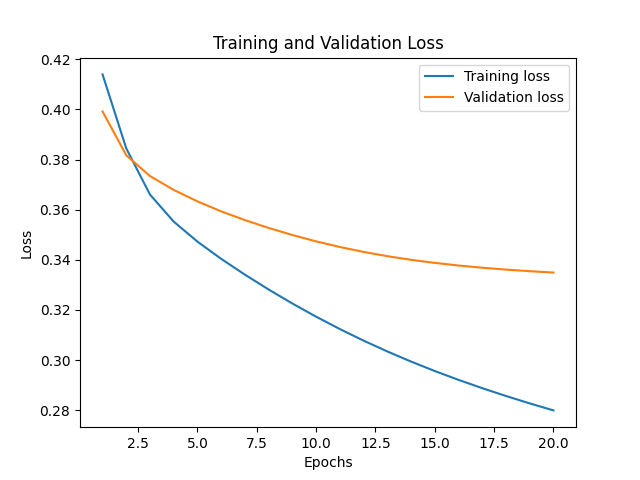
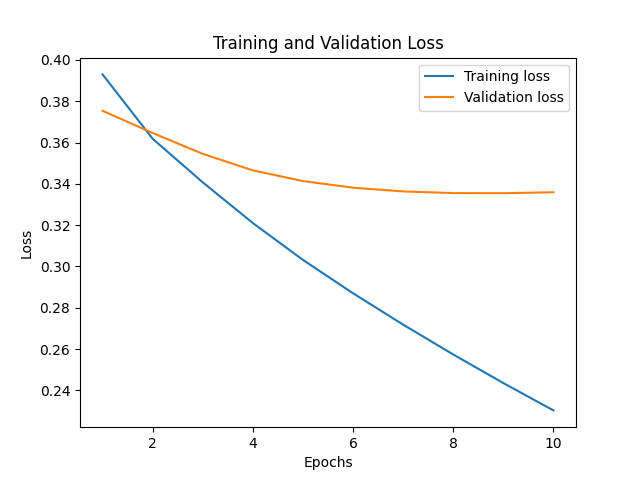
Part B

diff --git a/part_a/neural_network.py b/part_a/neural_network.py
@@ -1,3 +1,5 @@
+from matplotlib import pyplot as plt
+
 from utils import *
 from torch.autograd import Variable
 
@@ -8,7 +10,7 @@ import torch.utils.data
 
 import numpy as np
 import torch
-from scipy.sparse import hstack, csr_matrix
+from scipy.sparse import *
 
 
 def load_data(base_path="../data"):
@@ -35,6 +37,7 @@ def load_data(base_path="../data"):
     zero_train_matrix = torch.FloatTensor(zero_train_matrix)
     train_matrix = torch.FloatTensor(train_matrix)
 
+
     student_meta = pd.read_csv(os.path.join(base_path, 'student_meta_clean.csv'))
     question_meta = pd.read_csv(os.path.join(base_path, 'question_meta.csv'))
     subject_meta = pd.read_csv(os.path.join(base_path, 'subject_meta.csv'))
@@ -42,6 +45,20 @@ def load_data(base_path="../data"):
     student_meta_cleaned = process_student_metadata(student_meta)
     question_meta_cleaned = process_question_metadata(question_meta, subject_meta)
 
+    train_data = load_train_csv(base_path)
+
+    combined_train_matrix = combine_metadata_with_sparse_data(train_matrix,
+                                                 student_meta_cleaned,
+                                                 question_meta_cleaned,
+                                                 list(set(train_data['user_id'])),
+                                                 list(set(train_data['question_id'])))
+
+    zero_train_matrix = combined_train_matrix.copy()
+    # Fill in the missing entries to 0.
+    zero_train_matrix[np.isnan(train_matrix)] = 0
+    # Change to Float Tensor for PyTorch.
+    zero_train_matrix = torch.FloatTensor(zero_train_matrix)
+    train_matrix = torch.FloatTensor(combined_train_matrix)
     return zero_train_matrix, train_matrix, valid_data, test_data
 
 def combine_metadata_with_sparse_data(sparse_data, student_meta, question_meta, user_ids, question_ids):
@@ -60,10 +77,27 @@ def combine_metadata_with_sparse_data(sparse_data, student_meta, question_meta, 
     question_sparse = csr_matrix(question_meta.loc[question_ids].values)
 
     # Append metadata to the sparse data
-    combined_sparse_data = hstack([sparse_data, student_sparse, question_sparse])
+    combined_sparse_data = hstack([sparse_data, question_sparse.transpose()])
+    combined_sparse_data = vstack([combined_sparse_data, student_sparse])
 
     return combined_sparse_data
 
+def combine_data_with_metadata(data_df, student_meta_df, question_meta_df):
+    """
+    Combine the data DataFrame with student and question metadata.
+
+    :param data_df: DataFrame with user_id, question_id (and possibly is_correct).
+    :param student_meta_df: DataFrame containing processed student metadata.
+    :param question_meta_df: DataFrame containing processed question metadata.
+    :return: Combined DataFrame.
+    """
+    # Merge with student metadata
+    combined_df = data_df.merge(student_meta_df, on="user_id", how="left")
+
+    # Merge with question metadata
+    combined_df = combined_df.merge(question_meta_df, on="question_id", how="left")
+
+    return combined_df
 
 class AutoEncoder(nn.Module):
     def __init__(self, num_question, k=100):
@@ -189,17 +223,13 @@ def evaluate(model, train_data, valid_data):
 def main():
     zero_train_matrix, train_matrix, valid_data, test_data = load_data()
 
-    #####################################################################
-    # TODO:                                                             #
-    # Try out 5 different k and select the best k using the             #
-    # validation set.                                                   #
-    #####################################################################
+    print("Start hyperparameter tuning for part (b).")
+    print()
 
-    # Possible values of hyperparameters to try
     k_values = [10, 50, 100, 200, 500]
-    lr_values = [0.001, 0.01, 0.05]
-    epoch_values = [10, 20, 30]
-    lamb = 0.001
+    lr_values = [0.01, 0.03, 0.05]
+    epoch_values = [10, 20]
+    lamb = 0.0
 
     best_config = {
         "k": k_values[0],
@@ -227,26 +257,94 @@ def main():
                     num_epoch,
                 )
 
-                # Evaluate the model on the validation set
-                valid_acc = evaluate(
-                    model, zero_train_matrix, valid_data
-                )  # Assume this function is implemented
+                valid_acc = evaluate(model, zero_train_matrix, valid_data)
 
-                print(f"Validation accuracy: {valid_acc}")
+                # print(f"Validation accuracy: {valid_acc}")
 
-                # Update the best configuration if the current model is better
                 if valid_acc > best_config["valid_acc"]:
                     best_config.update(
-                        {"k": k, "lr": lr, "epochs": num_epoch, "valid_acc": valid_acc}
+                        {"k": k, "lr": lr, "epochs": num_epoch,
+                         "valid_acc": valid_acc}
                     )
 
     print(
         f"Best configuration: k={best_config['k']}, lr={best_config['lr']}, epochs={best_config['epochs']} with validation accuracy: {best_config['valid_acc']}"
     )
-    #####################################################################
-    #                       END OF YOUR CODE                            #
-    #####################################################################
 
+    print()
+    print("Start part (c)")
+    print()
 
+    N_valid = np.count_nonzero(valid_data["is_correct"])
+    N_train = np.count_nonzero(zero_train_matrix)
+
+    model = AutoEncoder(num_question=train_matrix.shape[1], k=best_config["k"])
+    lamb = 0.0
+    train_losses, valid_losses, valid_acc = train(
+        model,
+        best_config["lr"],
+        lamb,
+        train_matrix,
+        zero_train_matrix,
+        valid_data,
+        best_config["epochs"],
+    )
+
+    test_accuracy = evaluate(model, zero_train_matrix, test_data)
+    print(f"Test accuracy: {test_accuracy}")
+
+    epochs = range(1, len(train_losses) + 1)
+    plt.figure()
+    plt.plot(epochs, np.array(train_losses) / N_train, label="Training loss")
+    plt.plot(epochs, np.array(valid_losses) / N_valid, label="Validation loss")
+    plt.title("Training and Validation Loss")
+    plt.xlabel("Epochs")
+    plt.ylabel("Loss")
+    plt.legend()
+    plt.savefig("part3c.png")
+
+    print("Start hyperparameter tuning for part (d)")
+    print()
+
+    lamb = [1e-3, 1e-2, 1e-1, 1]
+    best_config_l = {
+        "lamb": lamb[0],
+        "valid_acc": -float("inf"),
+    }
+
+    for l in lamb:
+        print(f"Training with lambda={l}")
+
+        model = AutoEncoder(num_question=train_matrix.shape[1],
+                            k=best_config["k"])
+        train(
+            model,
+            best_config["lr"],
+            l,
+            train_matrix,
+            zero_train_matrix,
+            valid_data,
+            best_config["epochs"],
+        )
+
+        valid_acc = evaluate(model, zero_train_matrix, valid_data)
+
+        if valid_acc > best_config_l["valid_acc"]:
+            best_config_l.update({"lamb": l, "valid_acc": valid_acc})
+
+    model = AutoEncoder(num_question=train_matrix.shape[1], k=best_config["k"])
+    train(
+        model,
+        best_config["lr"],
+        best_config_l["lamb"],
+        train_matrix,
+        zero_train_matrix,
+        valid_data,
+        best_config["epochs"],
+    )
+    test_accuracy = evaluate(model, zero_train_matrix, test_data)
+    print(
+        f"Best configuration: k={best_config['k']}, lr={best_config['lr']}, epochs={best_config['epochs']}, lambda={best_config_l['lamb']} with validation accuracy: {best_config_l['valid_acc']} and test accuracy: {test_accuracy}"
+    )
 if __name__ == "__main__":
     main()

diff --git a/part_a/test.py b/part_a/test.py
@@ -1,0 +1,64 @@
+import pandas as pd
+from scipy.sparse import csr_matrix
+from collections import Counter
+
+from part_a.utils import *
+
+
+def test_train_data_alignment():
+    """
+    Test to ensure the train sparse matrix is correctly matched with the train data CSV.
+
+    :param train_sparse_matrix: SciPy sparse matrix of training data.
+    :param train_data_csv: Pandas DataFrame of training data from CSV.
+    """
+    base_path = "../data"
+    train_sparse_matrix = load_train_sparse(
+        base_path)  # Your train sparse matrix
+    train_data_csv = load_train_csv_df(base_path)  # Your train data CSV
+
+    # Check if dimensions match
+    num_users, num_questions = train_sparse_matrix.shape
+    assert num_users == len(train_data_csv['user_id'].unique()), \
+        "Mismatch in number of users"
+    assert num_questions == len(train_data_csv['question_id'].unique()), \
+        "Mismatch in number of questions"
+
+    # Create counters for user_id and question_id in the CSV
+    user_id_counter = Counter(train_data_csv['user_id'])
+    question_id_counter = Counter(train_data_csv['question_id'])
+
+    # Check if every user and question in the matrix is in the CSV
+    for user_id in range(num_users):
+        assert user_id in user_id_counter, \
+            f"User ID {user_id} is missing in CSV"
+    for question_id in range(num_questions):
+        assert question_id in question_id_counter, \
+            f"Question ID {question_id} is missing in CSV"
+
+    print("Test Passed: Train sparse matrix is correctly matched with train data CSV")
+
+def test_metadata_types():
+    """
+    Test to ensure the metadata columns are of the correct type.
+    """
+    base_path = "../data"
+    student_meta = pd.read_csv(
+        os.path.join(base_path, 'student_meta_clean.csv'))
+    question_meta = pd.read_csv(os.path.join(base_path, 'question_meta.csv'))
+    subject_meta = pd.read_csv(os.path.join(base_path, 'subject_meta.csv'))
+
+    student_meta_cleaned = process_student_metadata(student_meta)
+    question_meta_cleaned = process_question_metadata(question_meta,
+                                                      subject_meta)
+
+    print(student_meta_cleaned.dtypes)
+    print(question_meta_cleaned.dtypes)
+    print(student_meta_cleaned.head())
+    print(question_meta_cleaned[0:2])
+
+
+# how many unique values in question_meta, of subject_id
+
+question_meta = pd.read_csv(os.path.join("../data", 'question_meta.csv'))
+print(question_meta['subject_id'].nunique())

diff --git a/part_a/knn.py b/part_a/knn.py
@@ -1,4 +1,3 @@
-import matplotlib.pyplot as plt
 from sklearn.impute import KNNImputer
 from utils import *
 
@@ -38,11 +37,7 @@ def knn_impute_by_item(matrix, valid_data, k):
     # TODO:                                                             #
     # Implement the function as described in the docstring.             #
     #####################################################################
-    matrix_transposed = matrix.T
-    nbrs = KNNImputer(n_neighbors=k)
-    mat_transposed = nbrs.fit_transform(matrix_transposed)
-    mat = mat_transposed.T
-    acc = sparse_matrix_evaluate(valid_data, mat)
+    acc = None
     #####################################################################
     #                       END OF YOUR CODE                            #
     #####################################################################
@@ -65,32 +60,7 @@ def main():
     # the best performance and report the test accuracy with the        #
     # chosen k*.                                                        #
     #####################################################################
-    best_k = None
-    best_val_acc = 0
-
-    all_val_acc = []
-
-    k_values = [1, 6, 11, 16, 21, 26]
-
-    for k in k_values:
-        val_acc = knn_impute_by_user(sparse_matrix, val_data, k)
-        all_val_acc.append(val_acc)
-        if val_acc > best_val_acc:
-            best_val_acc = val_acc
-            best_k = k
-
-    plt.plot(k_values, all_val_acc, marker='o')
-    plt.xlabel('k')
-    plt.ylabel('Validation Accuracy')
-    plt.title('Validation Accuracy vs k')
-    plt.grid(True)
-    plt.show()
-
-    plt.savefig('validation_accuracy_plot.png', dpi=300)
-
-    test_acc = knn_impute_by_user(sparse_matrix, test_data, best_k)
-    print("k value selected:", best_k)
-    print("Test accuracy with best k:", test_acc)
+    pass
     #####################################################################
     #                       END OF YOUR CODE                            #
     #####################################################################

diff --git a/part_a/utils.py b/part_a/utils.py
@@ -22,8 +22,11 @@ def process_student_metadata(student_meta_df):
 
     # One-Hot Encode Gender
     # Assuming gender categories are 0 (N/A), 1, 2, etc.
-    gender_dummies = pd.get_dummies(student_meta_df['gender'], prefix='gender')
-    student_meta_df = pd.concat([student_meta_df, gender_dummies], axis=1)
+    gender_categories = student_meta_df['gender'].unique()
+    for gender in gender_categories:
+        column_name = f'gender_{gender}'
+        student_meta_df[column_name] = (
+                    student_meta_df['gender'] == gender).astype(int)
 
     # Drop original gender column
     student_meta_df = student_meta_df.drop('gender', axis=1)
@@ -118,6 +121,40 @@ def load_train_csv(root_dir="/data"):
     path = os.path.join(root_dir, "train_data.csv")
     return _load_csv(path)
 
+def load_train_csv_df(root_dir="/data"):
+    """ Load the training data as a pandas DataFrame.
+
+
+    :param root_dir: str
+    :return: A pandas DataFrame
+    """
+    path = os.path.join(root_dir, "train_data.csv")
+    return pd.read_csv(path, usecols=['user_id', 'question_id', 'is_correct'])
+
+def load_train_csv_to_df(path):
+    """
+    Load training data from a CSV file into a Pandas DataFrame.
+
+    :param path: The path to the training CSV file.
+    :return: A DataFrame containing the training data.
+    """
+    if not os.path.exists(path):
+        raise FileNotFoundError(f"The training data file at {path} does not exist.")
+
+    return pd.read_csv(path, usecols=["user_id", "question_id", "is_correct"])
+
+
+def load_valid_csv_to_df(path):
+    """
+    Load validation data from a CSV file into a Pandas DataFrame.
+
+    :param path: The path to the validation CSV file.
+    :return: A DataFrame containing the validation data.
+    """
+    if not os.path.exists(path):
+        raise FileNotFoundError(f"The validation data file at {path} does not exist.")
+
+    return pd.read_csv(path, usecols=["user_id", "question_id", "is_correct"])
 
 def load_valid_csv(root_dir="/data"):
     """ Load the validation data as a dictionary.

diff --git a/part_a/matrix_factorization.py b/part_a/matrix_factorization.py
@@ -87,7 +87,7 @@ def update_u_z(train_data, lr, u, z):
 
 
 def als(train_data, k, lr, num_iteration):
-    """ Performs ALS algorithm, here we use the iterative solution - SGD 
+    """ Performs ALS algorithm, here we use the iterative solution - SGD
     rather than the direct solution.
 
     :param train_data: A dictionary {user_id: list, question_id: list,
@@ -115,7 +115,8 @@ def als(train_data, k, lr, num_iteration):
 
 
 def main():
-    train_matrix = load_train_sparse("../data").toarray()
+    train_matrix = load_train_sparse(
+        "../data").toarray()
     train_data = load_train_csv("../data")
     val_data = load_valid_csv("../data")
     test_data = load_public_test_csv("../data")
